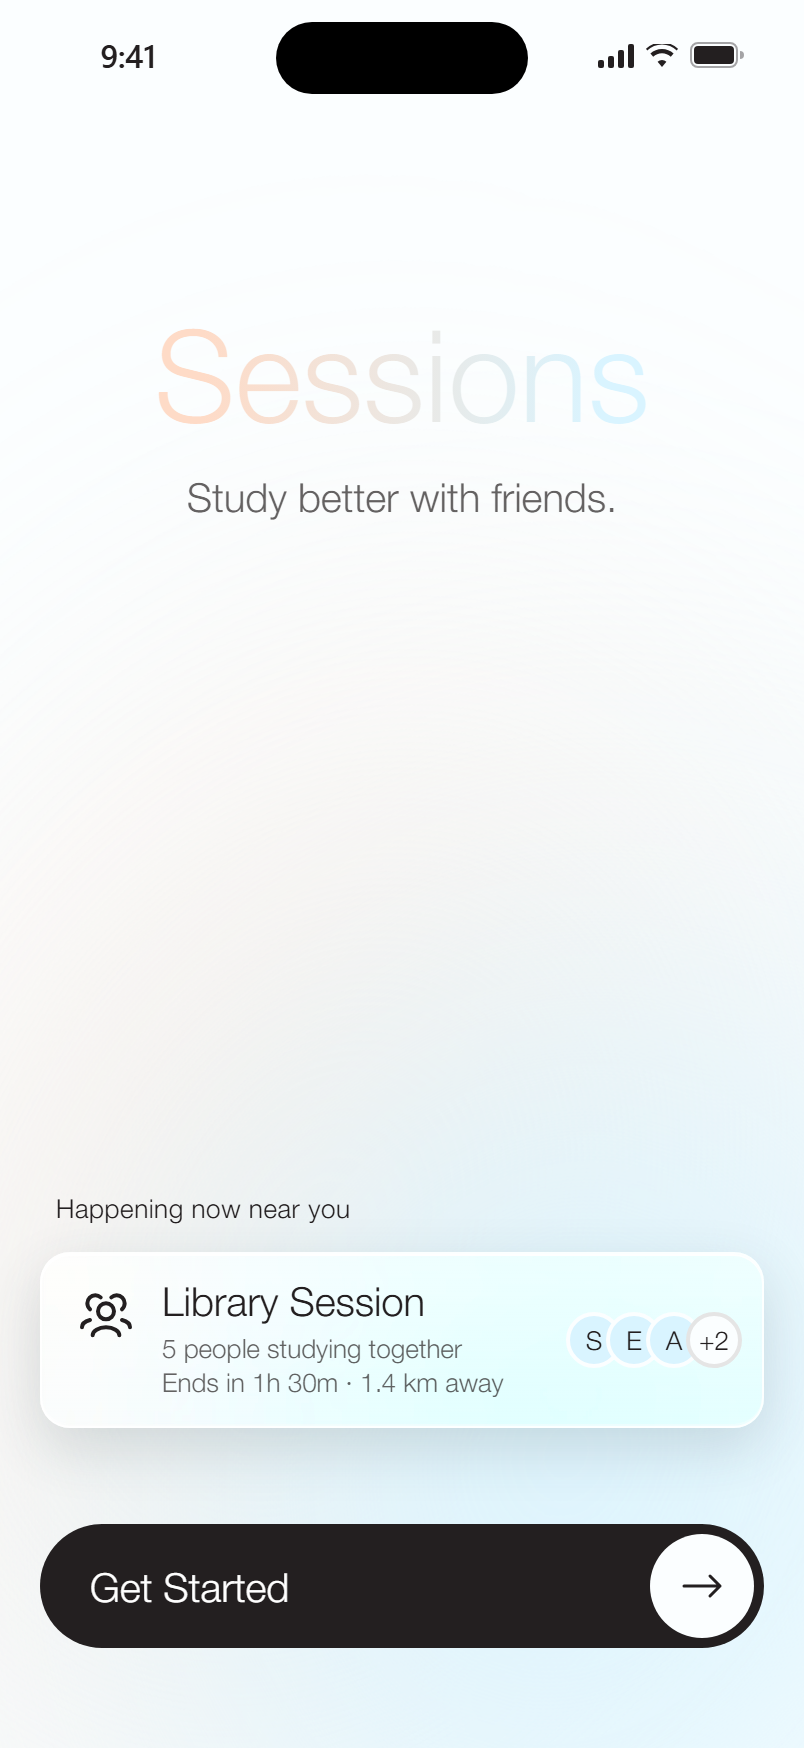
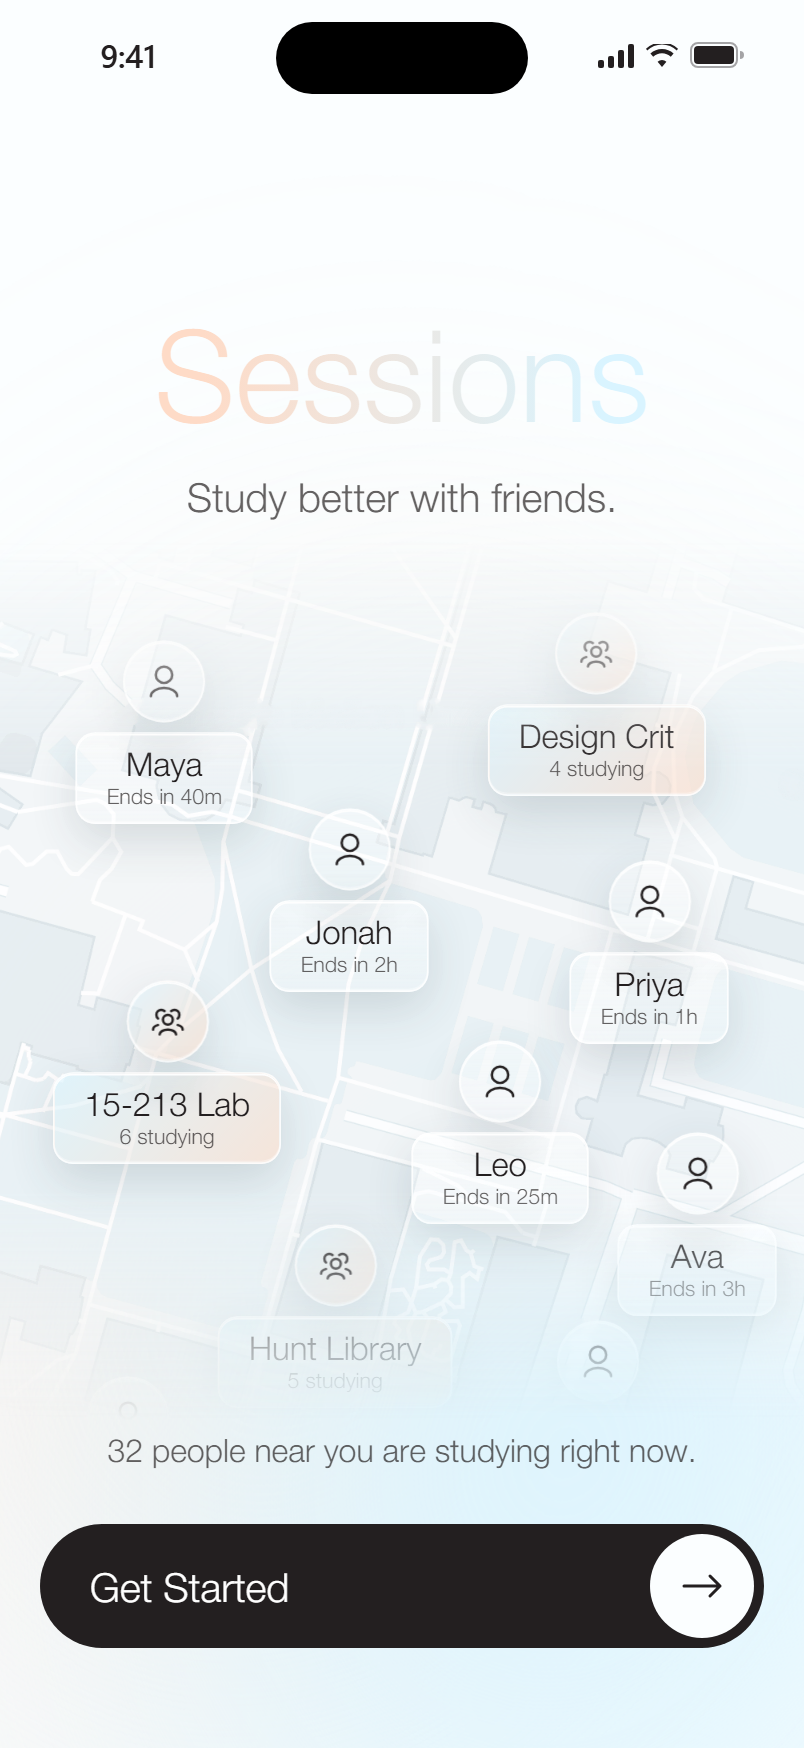
Bring in the latest Sessions prototype: the crowded welcome map and Settings-style lists

diff --git a/work/sessions-prototype.html b/work/sessions-prototype.html
@@ -239,6 +239,13 @@ svg.i{display:block;flex:none}
 .askfield input::placeholder{color:var(--ink)}
 .field.askfield .send{background:var(--pale);color:var(--deep);border:1px solid rgba(255,255,255,.25)}
 .iconbtn.askclose{position:absolute;left:20px;top:769px;color:var(--deep);background:rgba(255,255,255,.12);border:1px solid rgba(255,255,255,.75);box-shadow:inset 0 1px 2px rgba(255,255,255,.55)}
+/* welcome: the map, crowded. Real pins, fading in one after another, so the first thing you see is what you're missing */
+.crowd{position:absolute;left:0;right:0;top:270px;height:440px;overflow:hidden;pointer-events:none;-webkit-mask-image:linear-gradient(180deg,transparent,#000 26%,#000 74%,transparent);mask-image:linear-gradient(180deg,transparent,#000 26%,#000 74%,transparent)}
+.crowd .map{top:-200px;opacity:.9}
+.crowd .pin{transform-origin:center bottom;transform:scale(.82);animation:pinIn .6s var(--spring) both}
+.crowd .pin .lab .n{font-size:20px}
+@keyframes pinIn{from{opacity:0;transform:translateY(10px) scale(.7)}to{opacity:1;transform:scale(.82)}}
+@media (prefers-reduced-motion:reduce){.crowd .pin{animation:none}}
 .bgimg{position:absolute;left:0;top:0;width:402px;height:874px;pointer-events:none;user-select:none}
 .bottomrow{position:absolute;left:20px;right:20px;bottom:50px;display:flex;justify-content:space-between;align-items:center}
 .pillbtn{display:flex;align-items:center;gap:20px;padding:0 20px;font-size:24px;color:var(--deep);height:52px}
@@ -266,16 +273,14 @@ svg.i{display:block;flex:none}
 .chip{white-space:nowrap;height:44px;padding:0 10px;border-radius:12.5px;border:1px solid var(--line);font-size:16px;background:var(--bg);transition:background .2s,border-color .2s}
 .chip[aria-pressed="true"]{background:var(--pale);border-color:var(--pale)}
 .chip.add{width:44px;padding:0;display:grid;place-items:center}
-.opt{display:flex;align-items:center;gap:16px;padding:12px 20px;width:100%;text-align:left;background:transparent;border:1px solid transparent;border-radius:15px;transition:background .3s var(--ease),border-color .3s}
+/* settings choices use the Settings row: line border, radius 15, 20px title over a 16px line, and a thin ink check on the chosen row (iOS list convention) */
+.opt{display:flex;align-items:center;gap:16px;min-height:64px;padding:10px 20px;width:100%;text-align:left;background:var(--bg);border:1px solid var(--line);border-radius:15px;transition:border-color .2s}
 .opt .stack{flex:1;min-width:0;gap:2px}
-/* the Public / Private segment, as a list: unselected at ink 50%, the chosen one on the pale knob */
-.opt .t20{font-size:24px;line-height:29px;color:rgba(35,31,32,.5);transition:color .3s var(--ease)}
-.opt .t16{display:grid;grid-template-rows:0fr;opacity:0;transition:grid-template-rows .35s var(--ease),opacity .25s}
-.opt .t16>span{overflow:hidden}
-.opt[aria-checked="true"]{background:var(--pale);border-color:rgba(255,255,255,.25)}
-.opt[aria-checked="true"] .t20{color:var(--ink)}
-.opt[aria-checked="true"] .t16{grid-template-rows:1fr;opacity:1}
-.opt .chk{display:none}
+.opt .t20{font-size:20px;line-height:24px;color:var(--ink)}
+.opt .t16{font-size:16px;line-height:20px;color:var(--ink50)}
+.opt .chk{width:24px;height:24px;display:grid;place-items:center;flex:none;color:var(--ink);opacity:0;transform:scale(.6);transition:opacity .2s,transform .3s var(--spring)}
+.opt[aria-checked="true"] .chk{opacity:1;transform:none}
+.optlabel{font-size:16px;color:var(--ink50);margin:0 0 -2px 4px}
 /* the switch in the file's own terms: hairline track off; the tab bar's ink pill with a pale-blue knob when on */
 .switch{width:51px;height:31px;border-radius:250px;background:rgba(251,254,255,.5);border:1px solid var(--line);position:relative;flex:none;transition:background .25s,border-color .25s}
 .switch::after{content:"";position:absolute;top:3px;left:3px;width:23px;height:23px;border-radius:50%;background:var(--bg);border:1px solid var(--line);box-shadow:0 1px 2px rgba(52,67,74,.08);transition:transform .3s var(--spring),background .25s,border-color .25s}
@@ -483,10 +488,8 @@ const SCR={
 welcome:{label:'Welcome',html:()=>`${LIGHT.welcome}
   <div class="center wordmark" style="position:absolute;left:35px;right:35px;top:150px" aria-label="Sessions">Sessions</div>
   <p class="center t20 mut" style="position:absolute;left:35px;right:35px;top:237px;margin:0">Study better with friends.</p>
-  <div class="pad stack" style="top:596px;gap:12px" aria-hidden="true">
-    <span class="t12" style="letter-spacing:.3px;padding-left:8px">Happening now near you</span>
-    <div class="mapcard preview" style="position:static;left:auto;right:auto"><span class="who">${I('group',32)}</span><div class="meta"><span class="t20">Library Session</span><span class="t12">5 people studying together<br>Ends in 1h 30m · 1.4 km away</span></div><span class="avs">${['S','E','A'].map(c=>`<i>${c}</i>`).join('')}<i class="more">+2</i></span></div>
-  </div>
+  <div class="crowd" aria-hidden="true"><div class="map"></div><span class="pin" style="left:28px;top:30px;animation-delay:200ms"><span class="dot">${I('user',24)}</span><span class="lab"><span class="n">Maya</span><span class="e">Ends in 40m</span></span></span><span class="pin grp" style="left:232px;top:16px;animation-delay:290ms"><span class="dot">${I('group',24)}</span><span class="lab"><span class="n">Design Crit</span><span class="e">4 studying</span></span></span><span class="pin" style="left:126px;top:114px;animation-delay:380ms"><span class="dot">${I('user',24)}</span><span class="lab"><span class="n">Jonah</span><span class="e">Ends in 2h</span></span></span><span class="pin" style="left:276px;top:140px;animation-delay:470ms"><span class="dot">${I('user',24)}</span><span class="lab"><span class="n">Priya</span><span class="e">Ends in 1h</span></span></span><span class="pin grp" style="left:14px;top:200px;animation-delay:560ms"><span class="dot">${I('group',24)}</span><span class="lab"><span class="n">15-213 Lab</span><span class="e">6 studying</span></span></span><span class="pin" style="left:196px;top:230px;animation-delay:650ms"><span class="dot">${I('user',24)}</span><span class="lab"><span class="n">Leo</span><span class="e">Ends in 25m</span></span></span><span class="pin" style="left:300px;top:276px;animation-delay:740ms"><span class="dot">${I('user',24)}</span><span class="lab"><span class="n">Ava</span><span class="e">Ends in 3h</span></span></span><span class="pin grp" style="left:96px;top:322px;animation-delay:830ms"><span class="dot">${I('group',24)}</span><span class="lab"><span class="n">Hunt Library</span><span class="e">5 studying</span></span></span><span class="pin" style="left:236px;top:370px;animation-delay:920ms"><span class="dot">${I('user',24)}</span><span class="lab"><span class="n">Noah</span><span class="e">Ends in 1h 30m</span></span></span><span class="pin" style="left:10px;top:398px;animation-delay:1010ms"><span class="dot">${I('user',24)}</span><span class="lab"><span class="n">Iris</span><span class="e">Ends in 50m</span></span></span></div>
+  <p class="center t16 mut" style="position:absolute;left:35px;right:35px;top:716px;margin:0">32 people near you are studying right now.</p>
   <button data-go="name" style="position:absolute;left:20px;right:20px;bottom:50px;height:62px;border-radius:61.8px;background:#231F20;color:#fff;display:flex;align-items:center;justify-content:space-between;padding:5px 5px 5px 25px;font-size:20px">Get Started<span style="width:52px;height:52px;border-radius:50%;background:var(--bg);color:var(--ink);display:grid;place-items:center">${I('right')}</span></button>`},
 
 name:{label:'Your name',html:(o={})=>`${LIGHT.plain}${obHead('name',o.settings)}
@@ -506,14 +509,13 @@ pref:{label:'Study preferences',html:()=>{
 /* NEW: who sees where you study. The file put friends on a live map without
    saying who could see a pin, or when it went away. */
 where:{label:'Who sees you studying',html:o=>{
-  const opt=(k,a,b)=>`<button class="opt" role="radio" data-share="${k}" aria-checked="${S.share===k}"><span class="stack"><span class="t20">${a}</span><span class="t16 mut"><span>${b}</span></span></span><span class="chk">${I('check',16)}</span></button>`;
-  return `${LIGHT.plain}${obHead('where',o.settings)}
+  const opt=(k,a,b)=>`<button class="opt" role="radio" data-share="${k}" aria-checked="${S.share===k}"><span class="stack"><span class="t20">${a}</span><span class="t16">${b}</span></span><span class="chk">${I('check')}</span></button>`;
+  return `${LIGHT.plain}<div class="obhead"><button data-back aria-label="Back" style="width:24px;height:24px">${I('left')}</button></div>
   <div class="obbody"><div class="obtitle"><h1 class="h1">Who sees you studying</h1><p>Your pin shows only while a public session is running, and goes when it ends.</p></div>
-  <div class="stack" role="radiogroup" aria-label="Who sees your sessions" style="gap:6px">
+  <div class="stack" style="gap:10px"><p class="optlabel">Your pin</p><div class="stack" role="radiogroup" aria-label="Who sees your pin" style="gap:10px">
     ${opt('friends','Friends','Everyone you have added')}${opt('close','Close friends','A list you choose')}${opt('me','Only me','Every session is private')}
-  </div>
-  <div><button class="opt" role="checkbox" data-building aria-checked="${S.building}"><span class="stack"><span class="t20">Show the building only</span><span class="t16 mut"><span>Not where you sit inside it</span></span></span><span class="chk">${I('check',16)}</span></button></div></div>
-  <div class="pad" style="bottom:50px"><button class="btn primary" ${o.settings?'data-back':'data-go="invite"'} style="height:48px">${o.settings?'Done':'Next'}</button></div>`},
+  </div></div>
+  <div class="stack" style="gap:10px"><p class="optlabel">Location</p><button class="opt" role="checkbox" data-building aria-checked="${S.building}"><span class="stack"><span class="t20">Show the building only</span><span class="t16">Not where you sit inside it</span></span><span class="chk">${I('check')}</span></button></div></div>`},
   mount(s){s.querySelectorAll('[data-share]').forEach(b=>b.onclick=()=>{S.share=b.dataset.share;s.querySelectorAll('[data-share]').forEach(x=>x.setAttribute('aria-checked',x===b));});
     const sw=s.querySelector('[data-building]');sw.onclick=()=>{S.building=!S.building;sw.setAttribute('aria-checked',S.building);};}},
 
@@ -532,16 +534,15 @@ invite:{label:'Bring your friends',html:()=>{
     s.querySelector('[data-invnext]').onclick=()=>{S.askNotif=true;stack.length=0;go('map',{t:'fade'});};}},
 
 notify:{label:'Notifications',html:o=>{
-  const row=(k,a,b)=>`<button class="opt" role="checkbox" data-nudge="${k}" aria-checked="${S.nudges[k]}"><span class="stack"><span class="t20">${a}</span><span class="t16 mut"><span>${b}</span></span></span><span class="chk">${I('check',16)}</span></button>`;
-  return `${LIGHT.plain}${obHead('notify',o.settings)}
-  <div class="obbody"><div class="obtitle"><h1 class="h1">${o.settings?'Notifications':'When should we nudge you?'}</h1><p>Only for the moments that get you studying. Change these any time in Settings.</p></div>
-  <div class="stack" style="gap:6px">
-    ${row('nearby','Friends start nearby','When someone you added starts a public session')}
-    ${row('filling','A session is filling up','When a group you could join gets busy')}
-    ${row('streak','Streak reminder','The evening before your streak would end')}
-    ${row('quiet','Quiet after 10 pm','Hold everything until the morning')}
-  </div></div>
-  <div class="pad" style="bottom:50px"><button class="btn primary" ${o.settings?'data-back':'data-go="map" data-root'} style="height:48px">${o.settings?'Done':'Start studying'}</button></div>`},
+  const row=(k,a,b)=>`<button class="opt" role="checkbox" data-nudge="${k}" aria-checked="${S.nudges[k]}"><span class="stack"><span class="t20">${a}</span><span class="t16">${b}</span></span><span class="chk">${I('check')}</span></button>`;
+  return `${LIGHT.plain}<div class="obhead"><button data-back aria-label="Back" style="width:24px;height:24px">${I('left')}</button></div>
+  <div class="obbody"><div class="obtitle"><h1 class="h1">Notifications</h1><p>Only for the moments that get you studying.</p></div>
+  <div class="stack" style="gap:10px"><p class="optlabel">Nudge me when</p>
+    ${row('nearby','Friends start nearby','A friend starts a public session')}
+    ${row('filling','A session is filling up','A group you could join gets busy')}
+    ${row('streak','My streak is at risk','The evening before it would end')}
+  </div>
+  <div class="stack" style="gap:10px"><p class="optlabel">Quiet hours</p>${row('quiet','Quiet after 10 pm','Hold everything until the morning')}</div></div>`},
   mount(s){s.querySelectorAll('[data-nudge]').forEach(b=>b.onclick=()=>{const k=b.dataset.nudge;S.nudges[k]=!S.nudges[k];b.setAttribute('aria-checked',S.nudges[k]);});}},
 
 /* NEW: an ongoing session, opened from View on its card or from a friend */
